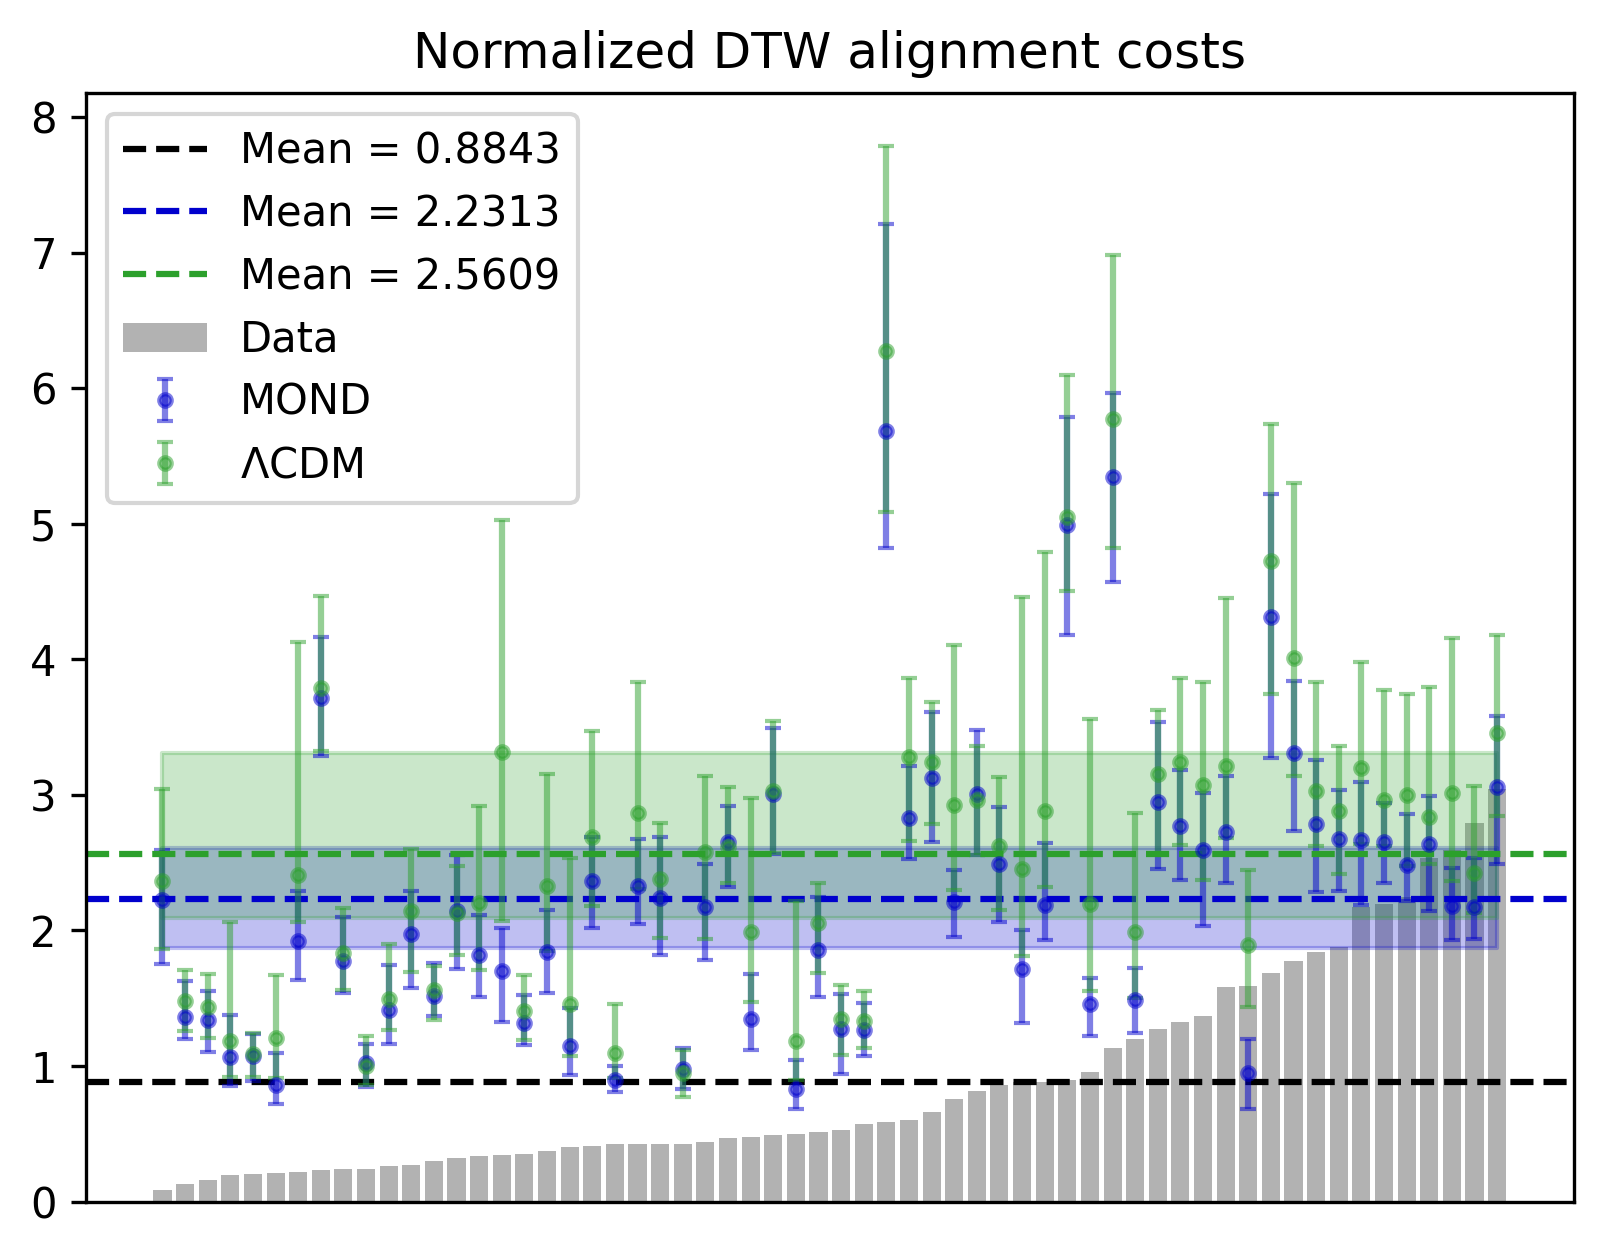
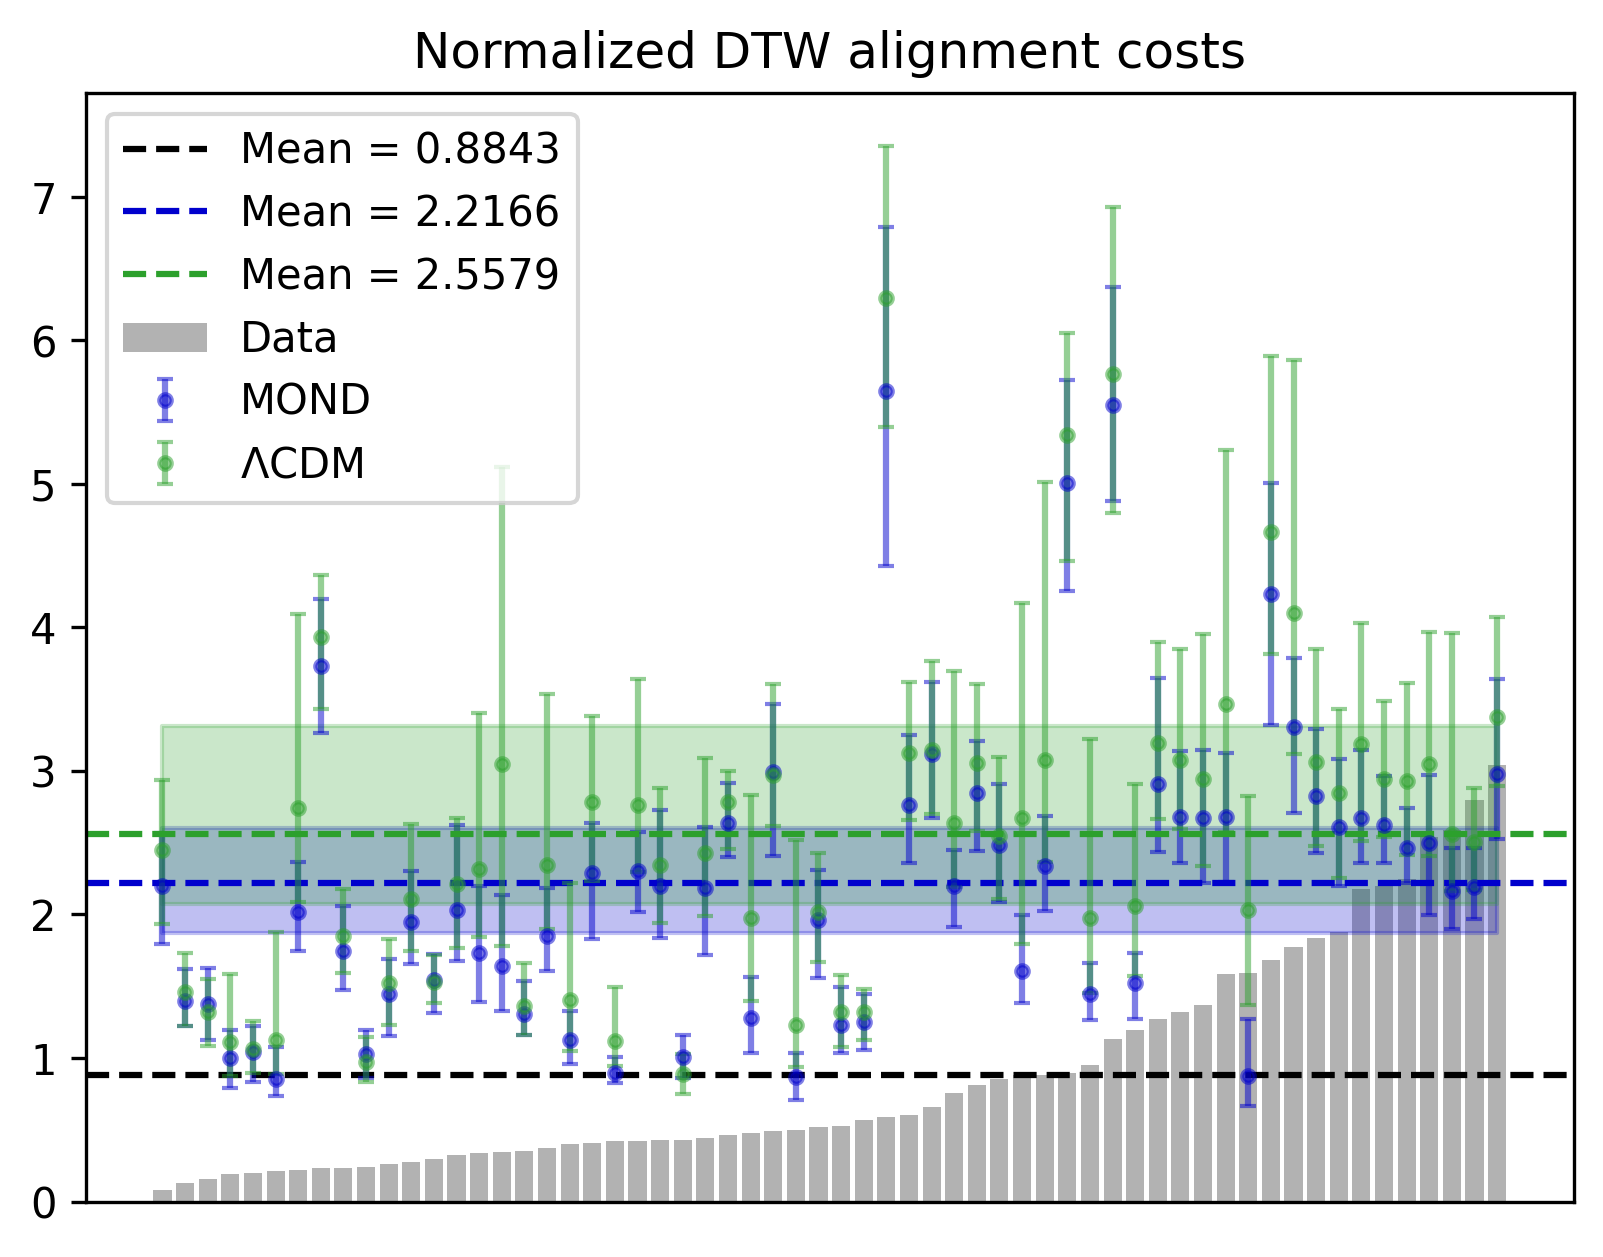
Upload plots

diff --git a/old_code/DM_fit_mcmc.py b/old_code/DM_fit_mcmc.py
@@ -8,7 +8,7 @@ import corner
 from scipy.integrate import quad
 # from IPython.display import display, Math
 
-file = "C:/Users/admin/OneDrive/Desktop/Other/Oxford UROP 2024/SPARC_Lelli2016c.mrt.txt"
+file = "C:/Users/admin/Desktop/Other/Oxford UROP 2024/SPARC_Lelli2016c.mrt.txt"
 SPARC_c = [ "T", "D", "e_D", "f_D", "Inc", "e_Inc",
             "L", "e_L", "Reff", "SBeff", "Rdisk",
             "SBdisk", "MHI", "RHI", "Vflat", "e_Vflat", "Q", "Ref."]
@@ -17,7 +17,7 @@ table = pd.read_fwf(file, skiprows=98, names=SPARC_c)
 
 # galaxy = [ "NGC5055", "NGC5585",
 #             "NGC6015", "NGC6946", "NGC7331" ]
-galaxy = [ "NGC6946" ]
+galaxy = [ "NGC2403" ]
 
 columns = [ "Rad", "Vobs", "errV", "Vgas",
             "Vdisk", "Vbul", "SBdisk", "SBbul" ]
@@ -40,7 +40,7 @@ def gNFWhalo_v(r, rho0, rc, alpha):
     def integrand(x):
         return rho0 / (x**alpha * (1+x)**(3-alpha)) # gNFW profile 
     Mr = quad(integrand, 0, x, args=(x))[0]
-    print("Mr = "+str(Mr))
+    # print("Mr = "+str(Mr))
     v = np.sqrt(G * Mr / r)
     return v
 
@@ -52,7 +52,7 @@ for g in galaxy:
     D, e_D = table["D"][g], table["e_D"][g] # Distance to galaxy
     Inc, e_Inc = table["Inc"][g], table["e_Inc"][g] # Inclination in degrees
     
-    file_path = "C:/Users/admin/OneDrive/Desktop/Other/Oxford UROP 2024/data/"+g+"_rotmod.dat"
+    file_path = "C:/Users/admin/Desktop/Other/Oxford UROP 2024/data/"+g+"_rotmod.dat"
     rawdata = np.loadtxt(file_path)
     data = pd.DataFrame(rawdata, columns=columns)
     bulged = np.any(data["Vbul"]>0) # Check whether galaxy has bulge.
@@ -118,7 +118,7 @@ for g in galaxy:
         sampler = emcee.EnsembleSampler(nwalkers, ndim, lnprob, args=data)
     
         print("Running burn-in...")
-        p0, _, _ = sampler.run_mcmc(p0, 500, progress=True)
+        p0, _, _ = sampler.run_mcmc(p0, 200, progress=True)
         sampler.reset()
     
         print("Running production...")
@@ -129,7 +129,8 @@ for g in galaxy:
     fit_data = ( r, data["Vobs"], data["errV"] )
     nwalkers = 128
     niter = 50
-    initial = np.array([D, Inc, 2e+6, 15, 1.0, 0.5])
+    # initial = np.array([D, Inc, 2e+6, 15, 1.0, 0.5])
+    initial = np.array([D, Inc, 2e+6, 15, 0.5])
     if bulged:
         initial = np.append(initial, [0.7])
     print("initial = "+str(initial))
@@ -142,20 +143,20 @@ for g in galaxy:
     if bulged:
         labels.append('pbul')
         
-    fig_test, axes = plt.subplots(ndim, sharex=True)
-    samples_test = sampler.get_chain()
-    for i in range(ndim):
-        ax = axes[i]
-        ax.plot(samples_test[:, :, i], "k", alpha=0.3)
-        ax.set_xlim(0, len(samples_test))
-        ax.set_ylabel(labels[i])
-        ax.yaxis.set_label_coords(-0.1, 0.5)
+    # fig_test, axes = plt.subplots(ndim, sharex=True)
+    # samples_test = sampler.get_chain()
+    # for i in range(ndim):
+    #     ax = axes[i]
+    #     ax.plot(samples_test[:, :, i], "k", alpha=0.3)
+    #     ax.set_xlim(0, len(samples_test))
+    #     ax.set_ylabel(labels[i])
+    #     ax.yaxis.set_label_coords(-0.1, 0.5)
     
-    axes[-1].set_xlabel("step number")
-    fig_test.savefig("C:/Users/admin/OneDrive/Desktop/Other/Oxford UROP 2024/plots/DM_NFW/MCMC/time_series_"+g+".png", dpi=300, bbox_inches="tight")
+    # axes[-1].set_xlabel("step number")
+    # fig_test.savefig("C:/Users/admin/Desktop/Other/Oxford UROP 2024/plots/DM_NFW/MCMC/time_series_"+g+".png", dpi=300, bbox_inches="tight")
     
-    tau = sampler.get_autocorr_time()
-    print(tau)
+    # tau = sampler.get_autocorr_time()
+    # print(tau)
     
     theta_max = samples[np.argmax(sampler.flatlnprobability)]
     print('Theta max: ', theta_max)
@@ -200,27 +201,28 @@ for g in galaxy:
     plt.xlabel('Radius (kpc)')
     plt.ylabel('Velocities (km/s)')
     
-    rho0, rc, alpha, pdisk = theta_max[2], theta_max[3], theta_max[4], theta_max[5]
+    # rho0, rc, alpha, pdisk = theta_max[2], theta_max[3], theta_max[4], theta_max[5]
+    rho0, rc, pdisk = theta_max[2], theta_max[3], theta_max[4]
     if bulged:
-        pbul = theta_max[6]
+        pbul = theta_max[5]
     
     plt.plot(r, data["Vgas"], label="Gas")
     plt.plot(r, data["Vdisk"]*np.sqrt(pdisk), label="Stellar disc")
     if bulged:
         plt.plot(r, data["Vbul"]*np.sqrt(pbul), label="Bulge")
     plt.plot(r, Vpred(theta_max, wDM=False), linestyle="dashed", color="grey", label="Total curve W/O DM")
-    plt.plot(r, gNFWhalo_v(r, rho0, rc, alpha), label="Dark matter halo - best fit")
+    plt.plot(r, NFWhalo_v(r, rho0, rc), label="Dark matter halo - best fit")
     plt.plot(r, Vpred(theta_max), color="black", label="Total curve - best fit")
     plt.fill_between(r, med_model-spread, med_model+spread, color='yellow', alpha=0.5, label=r'$1\sigma$ posterior spread')
     plt.legend(bbox_to_anchor=(1,1), loc="upper left")
     
-    plt.savefig("C:/Users/admin/OneDrive/Desktop/Other/Oxford UROP 2024/plots/DM_NFW/MCMC/gNFW_"+g+".png", dpi=300, bbox_inches="tight")
+    plt.savefig("C:/Users/admin/Desktop/Other/Oxford UROP 2024/plots/DM_NFW/MCMC/"+g+".png", dpi=300, bbox_inches="tight")
     plt.show()
     plt.close()
     
     fig = corner.corner(samples, show_titles=True, labels=labels, plot_datapoints=True, quantiles=[0.16, 0.5, 0.84], smooth=1)
-    fig.savefig("C:/Users/admin/OneDrive/Desktop/Other/Oxford UROP 2024/plots/DM_NFW/MCMC/gNFW_"+g+"_corner.png", dpi=300, bbox_inches="tight")
-    # plt.close(fig)
+    fig.savefig("C:/Users/admin/Desktop/Other/Oxford UROP 2024/plots/DM_NFW/MCMC/"+g+"_corner.png", dpi=300, bbox_inches="tight")
+    plt.close(fig)
     
     print("=================================")
     

diff --git a/old_code/DM_fit.py b/old_code/DM_fit.py
@@ -6,7 +6,7 @@ from scipy.optimize import curve_fit
 
 # galaxy = [ "NGC5055", "NGC5585",
 #             "NGC6015", "NGC6946", "NGC7331" ]
-galaxy = [ "NGC6946" ]
+galaxy = [ "NGC2403" ]
 
 columns = [ "Rad", "Vobs", "errV", "Vgas",
             "Vdisk", "Vbul", "SBdisk", "SBbul" ]
@@ -38,7 +38,7 @@ for g in galaxy:
     Plotting galaxy rotation curves directly from data with variables:
     Vobs (overall observed, corrected for inclination), Vgas, Vdisk, Vbul.
     """
-    file_path = "C:/Users/admin/OneDrive/Desktop/Other/Oxford UROP 2024/data/"+g+"_rotmod.dat"
+    file_path = "C:/Users/admin/Desktop/Other/Oxford UROP 2024/data/"+g+"_rotmod.dat"
     rawdata = np.loadtxt(file_path)
     data = pd.DataFrame(rawdata, columns=columns)
     r = data["Rad"]
@@ -67,13 +67,13 @@ for g in galaxy:
     plt.errorbar(r, data["Vobs"], yerr=data["errV"], fmt=".", capsize=3, label="Total curve - observed")
     plt.plot(r, data["Vgas"], label="Gas")
     plt.plot(r, data["Vdisk"]*np.sqrt(pdisk), label="Stellar disc")
-    plt.plot(r, data["Vbul"]*np.sqrt(pbul), label="Bulge")
+    # plt.plot(r, data["Vbul"]*np.sqrt(pbul), label="Bulge")
     plt.plot(r, total_v_noDM(data), linestyle="dashed", color="grey", label="Total curve W/O DM")
     plt.plot(r, halo_v(r, rho0, rc), label="Dark matter halo - best fit")
     plt.plot(r, total_v(r, rho0, rc), color="black", label="Total curve WITH DM (fit)")
-    plt.fill_between(r, total_v(r, *(parameters-perr)), total_v(r, *(parameters+perr)), facecolor="yellow", alpha=0.5, label=r"$1 \sigma$ range from DM fit")
+    plt.fill_between(r, total_v(r, *(parameters-perr)), total_v(r, *(parameters+perr)), facecolor="yellow", alpha=0.5, label=r"$1\sigma$ confidence spread")
     plt.legend(bbox_to_anchor=(1,1), loc="upper left")
     
-    # plt.savefig("C:/Users/admin/OneDrive/Desktop/Other/Oxford UROP 2024/plots/DM_NFW/"+g+".png", dpi=300, bbox_inches="tight")
+    plt.savefig("C:/Users/admin/Desktop/Other/Oxford UROP 2024/plots/DM_NFW/"+g+".png", dpi=300, bbox_inches="tight")
     plt.show()
     plt.close()
